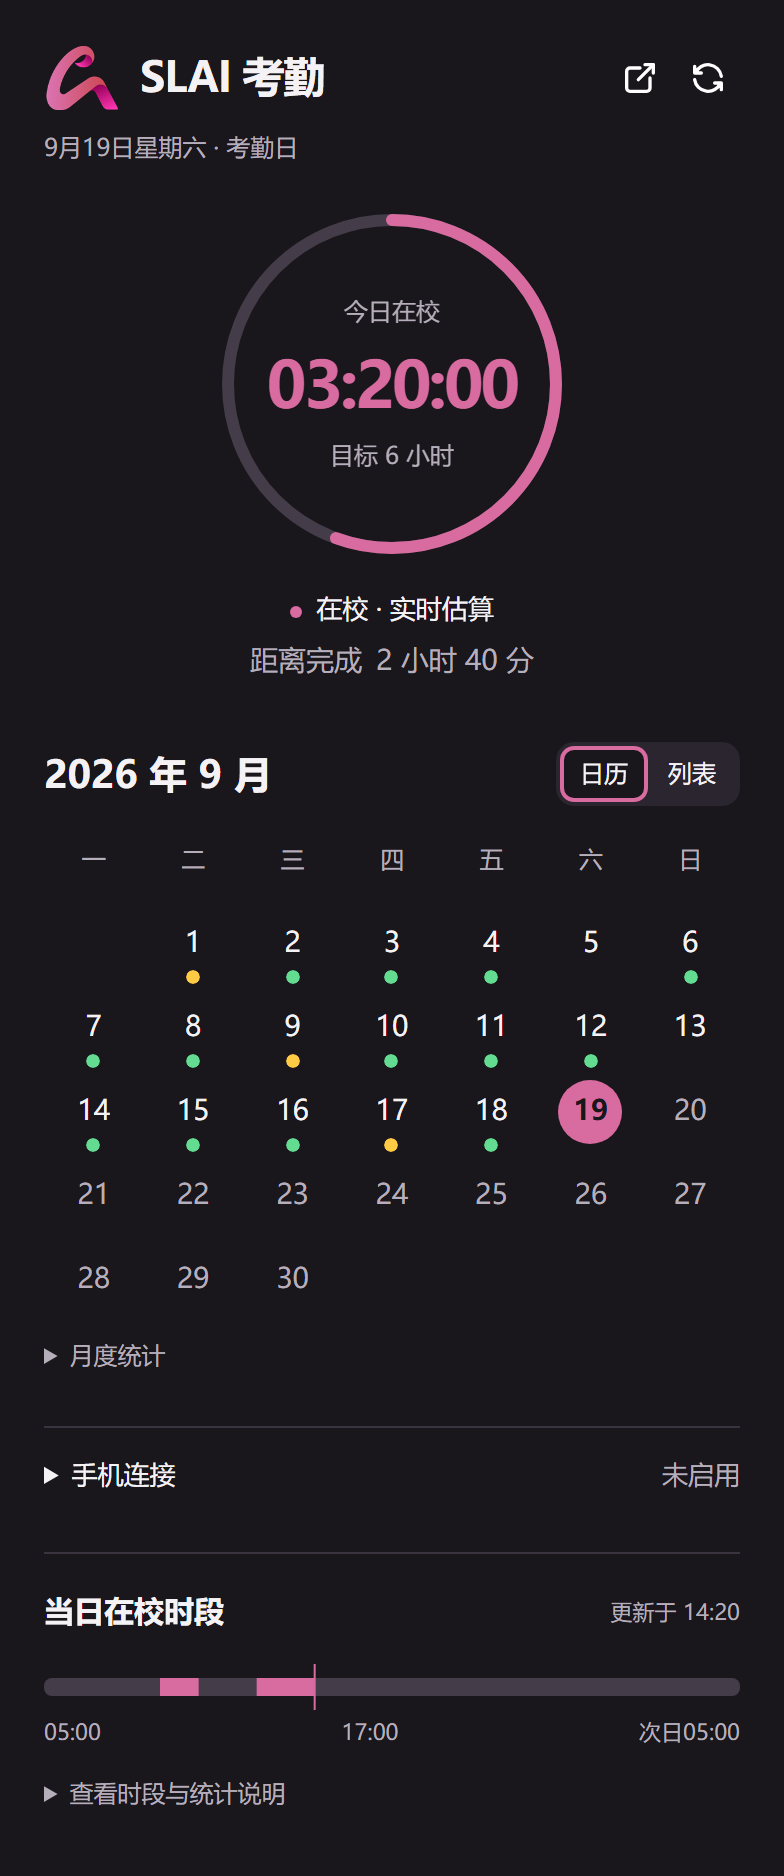
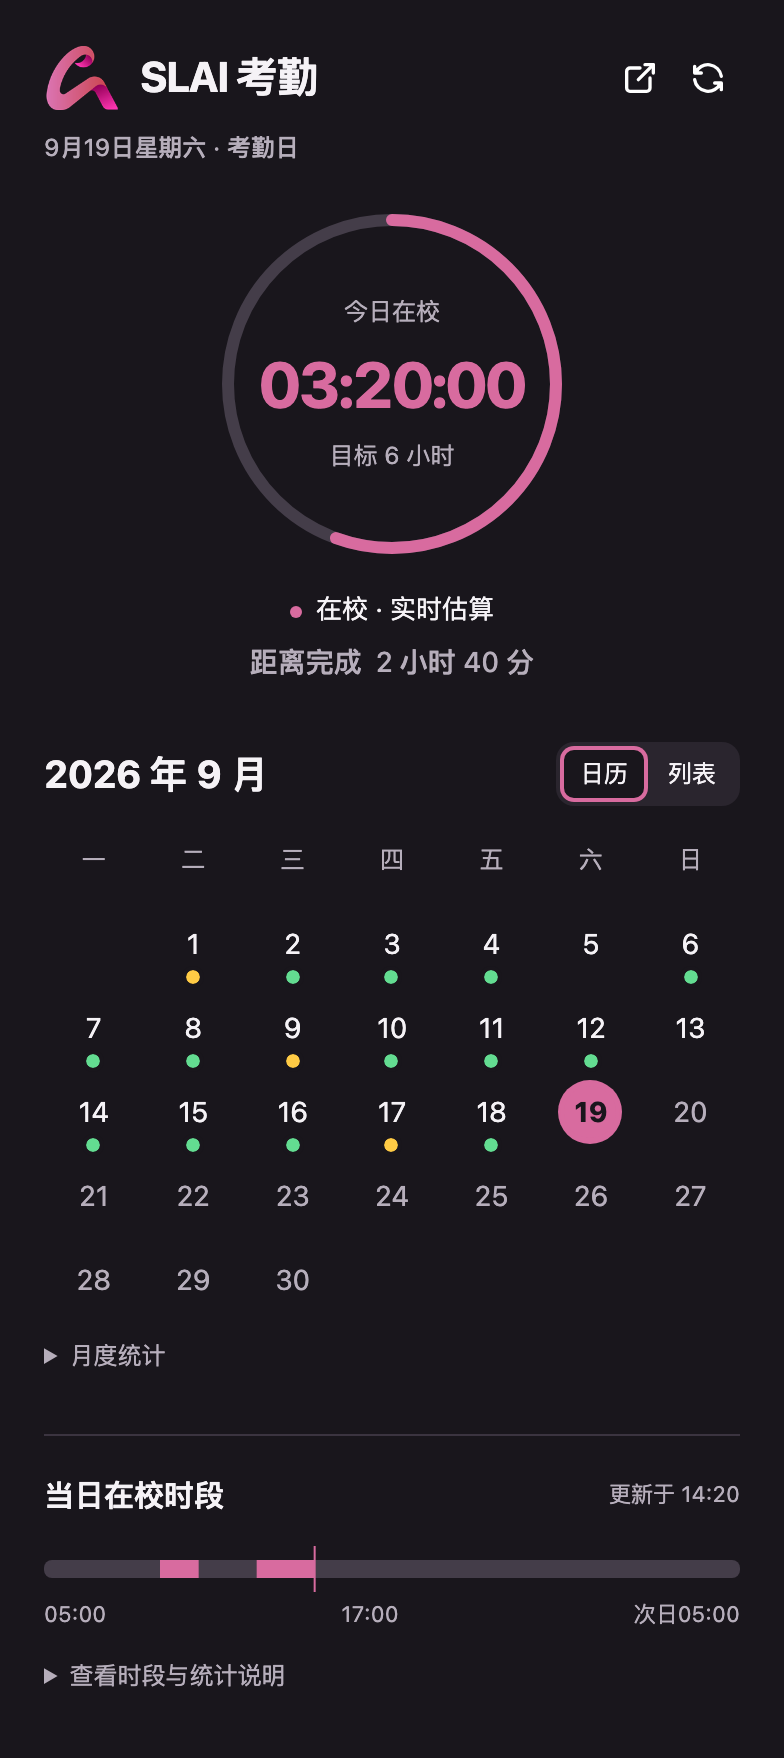
Prepare v1.4.2 Android release documentation

diff --git a/CHANGELOG.md b/CHANGELOG.md
@@ -1,20 +1,22 @@
 # 更新记录
 
-## 1.4.2 · 开发中
+## 1.4.2 · 2026-09-20
+
+- 首次正式发布独立安卓应用，包含下方 1.4.0、1.4.1 的全部改动；同时提供同版本 Chrome 扩展。
 
 - 根据实际学校页面修复无文字 `.layui-none` 且无分页栏的正常空表识别，避免凌晨第二个自然日零记录导致前一天完整明细无法保存；仅接受渲染后的主表空标记，加载中、错误提示和不明表格继续保留失败状态。
 - 排错信息增加正在查询的日期、页面筛选日期和固定表格状态，经过缓存清洗与复制仍保留现场，不收集原始页面、账号或会话 URL。
 - 修复安卓学校页面禁止缩放、只能看到左上角的问题：使用桌面宽度并默认适配屏幕，允许双指缩放，提供原生“缩小／放大”按钮；返回考勤继续刷新一次。
 - 增加无文字空表跨午夜合并、诊断传递与隐私过滤、原生 WebView 缩放及远端控件触摸回归测试；使用虚构记录。
 
-## 1.4.1 · 开发中
+## 1.4.1 · 并入 1.4.2 发布
 
 - 安卓点击“返回考勤”时附带刷新一次，复用刷新按钮的进度和错误提示；重复点击不重复采集，普通前台恢复仍只展示缓存。
 - 将已加载的“暂无数据”及零条明细识别为正常空结果，忽略空列表遗留的下一页控件；加载中、未知表格和条数不齐仍不能标为成功。
 - 明细请求优先使用 90 条／页，并通过学校分页选项同步 Ajax 页大小；超过 90 条继续翻页，保持 1.5 秒间隔和跨日共享请求上限。
 - 修复第二个自然日的第一页被排错信息标成第二页；补充空结果恢复、午夜合并、90 条跨页、最终 ZIP 与 Android WebView 回归验证。
 
-## 1.4.0 · 开发中
+## 1.4.0 · 并入 1.4.2 发布
 
 - 修复 issue #4 的空 JavaScript 分页链接 CSP 报错，新增最终 ZIP console/CDP 安全日志回归测试；真正依赖脚本 URL 的分页给出具体诊断。
 - 新增独立 Android APK，使用本机 WebView 学校会话及桌面浏览器标识，复用桌面界面和共享采集／统计代码。安卓仅手动刷新，登录过期后重新登录。

diff --git a/README.md b/README.md
@@ -30,6 +30,8 @@
 
 ## 安装安卓 APK
 
+下载 [安卓 v1.4.2 APK](https://github.com/TianQijia/slai-attendance-widget/releases/download/v1.4.2/slai-attendance-android-v1.4.2.apk)，或查看[发布说明与校验文件](https://github.com/TianQijia/slai-attendance-widget/releases/tag/v1.4.2)。已安装同签名测试版可直接覆盖安装。
+
 1. 将 APK 传到自己的手机，打开并按系统提示允许该来源安装。
 2. 打开“SLAI 考勤”，点击“去登录”。在内置学校页面使用自己的账号完成登录；页面默认显示完整桌面宽度，可双指缩放或用顶部“缩小／放大”按钮调整。
 3. 点击“返回考勤”会回到面板并刷新一次；平时也可点右上角刷新。打开应用、回到前台或仅完成登录不会自行采集。
